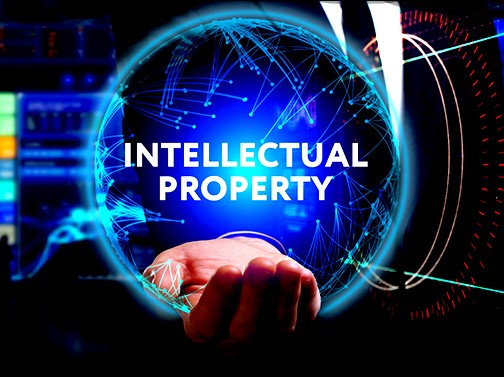
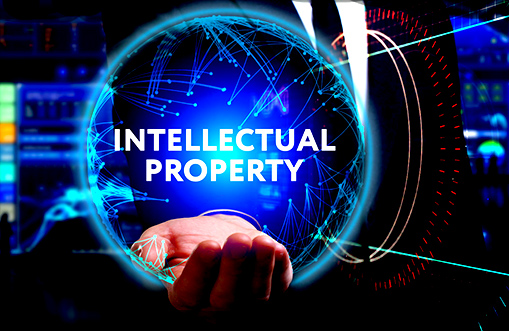
sixth commit

diff --git a/assets/css/main.css b/assets/css/main.css
@@ -47,7 +47,11 @@ ul {
   position: relative; }
   @media (max-width: 768px) {
     .landing {
-      background-image: url("../img/hero-bg-phone.jpg"); } }
+      background-image: url("../img/hero-bg-phone.jpg");
+      background-size: contain;
+      height: 50vh;
+      max-width: 100%;
+      margin-top: 3rem; } }
   .landing .overlay {
     position: absolute;
     top: 0;

diff --git a/assets/css/main.scss b/assets/css/main.scss
@@ -66,6 +66,10 @@ ul{
 
     @media (max-width: 768px){
         background-image: url("../img/hero-bg-phone.jpg");
+        background-size: contain;
+        height:50vh;
+        max-width: 100%;
+        margin-top:3rem;
      }
 
     .overlay{
